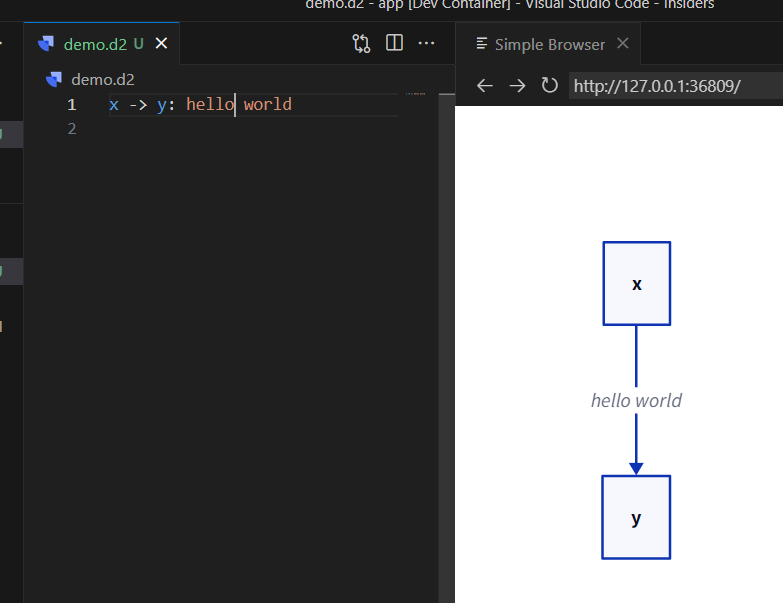
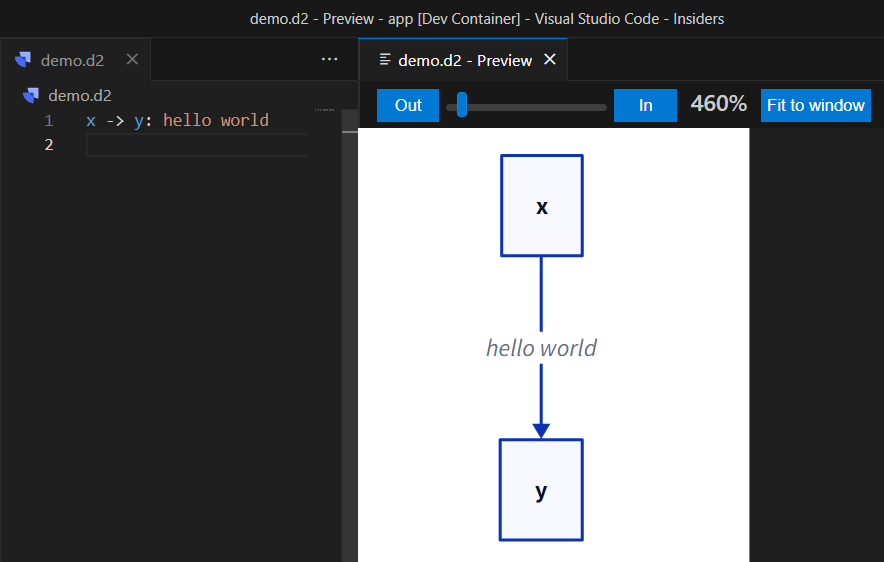
more simple

diff --git a/README.md b/README.md
@@ -4,7 +4,16 @@
 
 This is a simple demo of how to use [D2](https://d2lang.com) in a DevContainer.
 
-- run `d2 demo.d2 --watch`
-- open `VsCode PORTS` tab and click on the `Preview in the Editor` button
+- run `d2 demo.d2 --watch` in the terminal
+
+### Preview
+
+right click on the `demo.d2` file and select `Show D2 Preview`
+
+![right_click](right_click.png)
+
+or 
+
+open `VsCode PORTS` tab and click on the `Preview in the Editor` button
 
 ![preview_in_editor](preview_in_editor.png)
